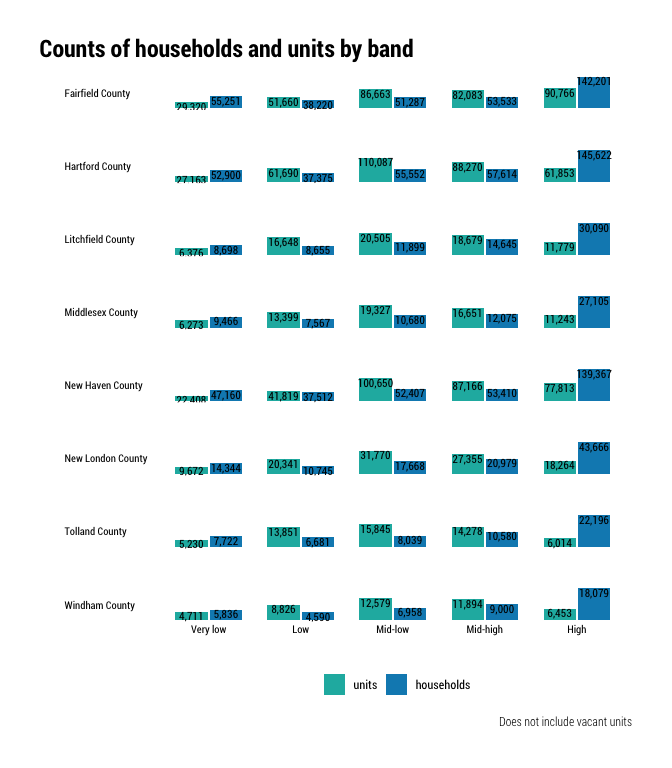
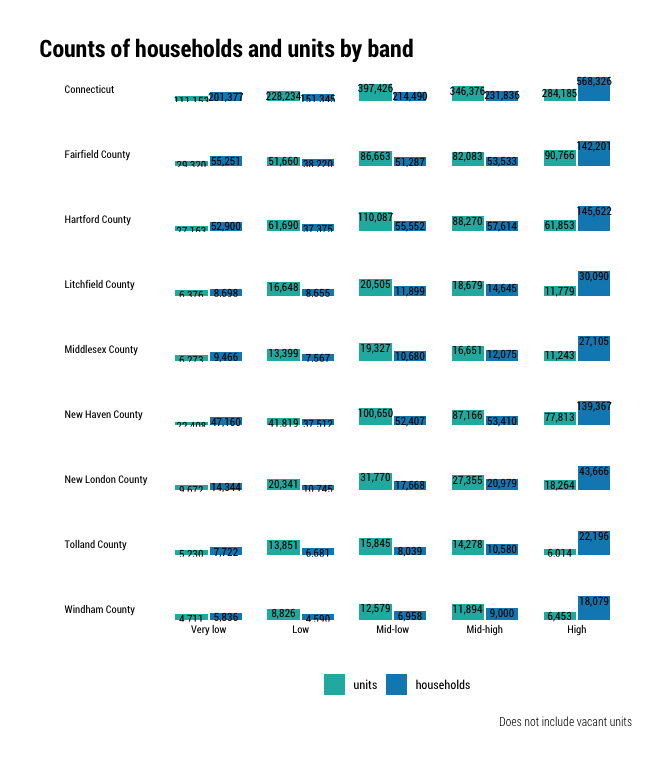
chart styling for hh paying same/lower/higher, add ct to units/hh chart

diff --git a/notebooks/hh_desiring_housing.md b/notebooks/hh_desiring_housing.md
@@ -1961,9 +1961,10 @@ households anywhere.
 
 ![](hh_desiring_housing_files/figure-gfm/unnamed-chunk-18-1.png)<!-- -->
 
-Another interesting chart might be the share of households paying into
-the right cost band, those paying less, and those paying more. Only
-showing CT but providing a table by county.
+Knowing that households paying into a cost band are not a subset of
+households in that income band, here’s the share of households paying
+into the appropriate/same cost band, those paying less, and those paying
+more. Only showing CT but providing a table by county.
 
 ![](hh_desiring_housing_files/figure-gfm/unnamed-chunk-19-1.png)<!-- -->
 
@@ -1981,11 +1982,9 @@ rent and mortgage payment estimate generated using some average mortgage
 rate for CT. Need a new PUMS file in hierarchical format, widdled down
 to household level.*
 
-According to HMDA data, the statewide average for first lien mortgages
-in 2019 was 4.179. I’ll further disaggregate by county and do additional
-analysis on high interest loans and rates by race of applicant/other
-demographic flags, but for now I’ll use that value to estimate mortgage
-payments.
+I’ll further disaggregate by county and do additional analysis on high
+interest loans and rates by race of applicant/other demographic flags,
+but for now I’ll use that value to estimate mortgage payments.
 
 ## Households who need housing in each cost band
 
